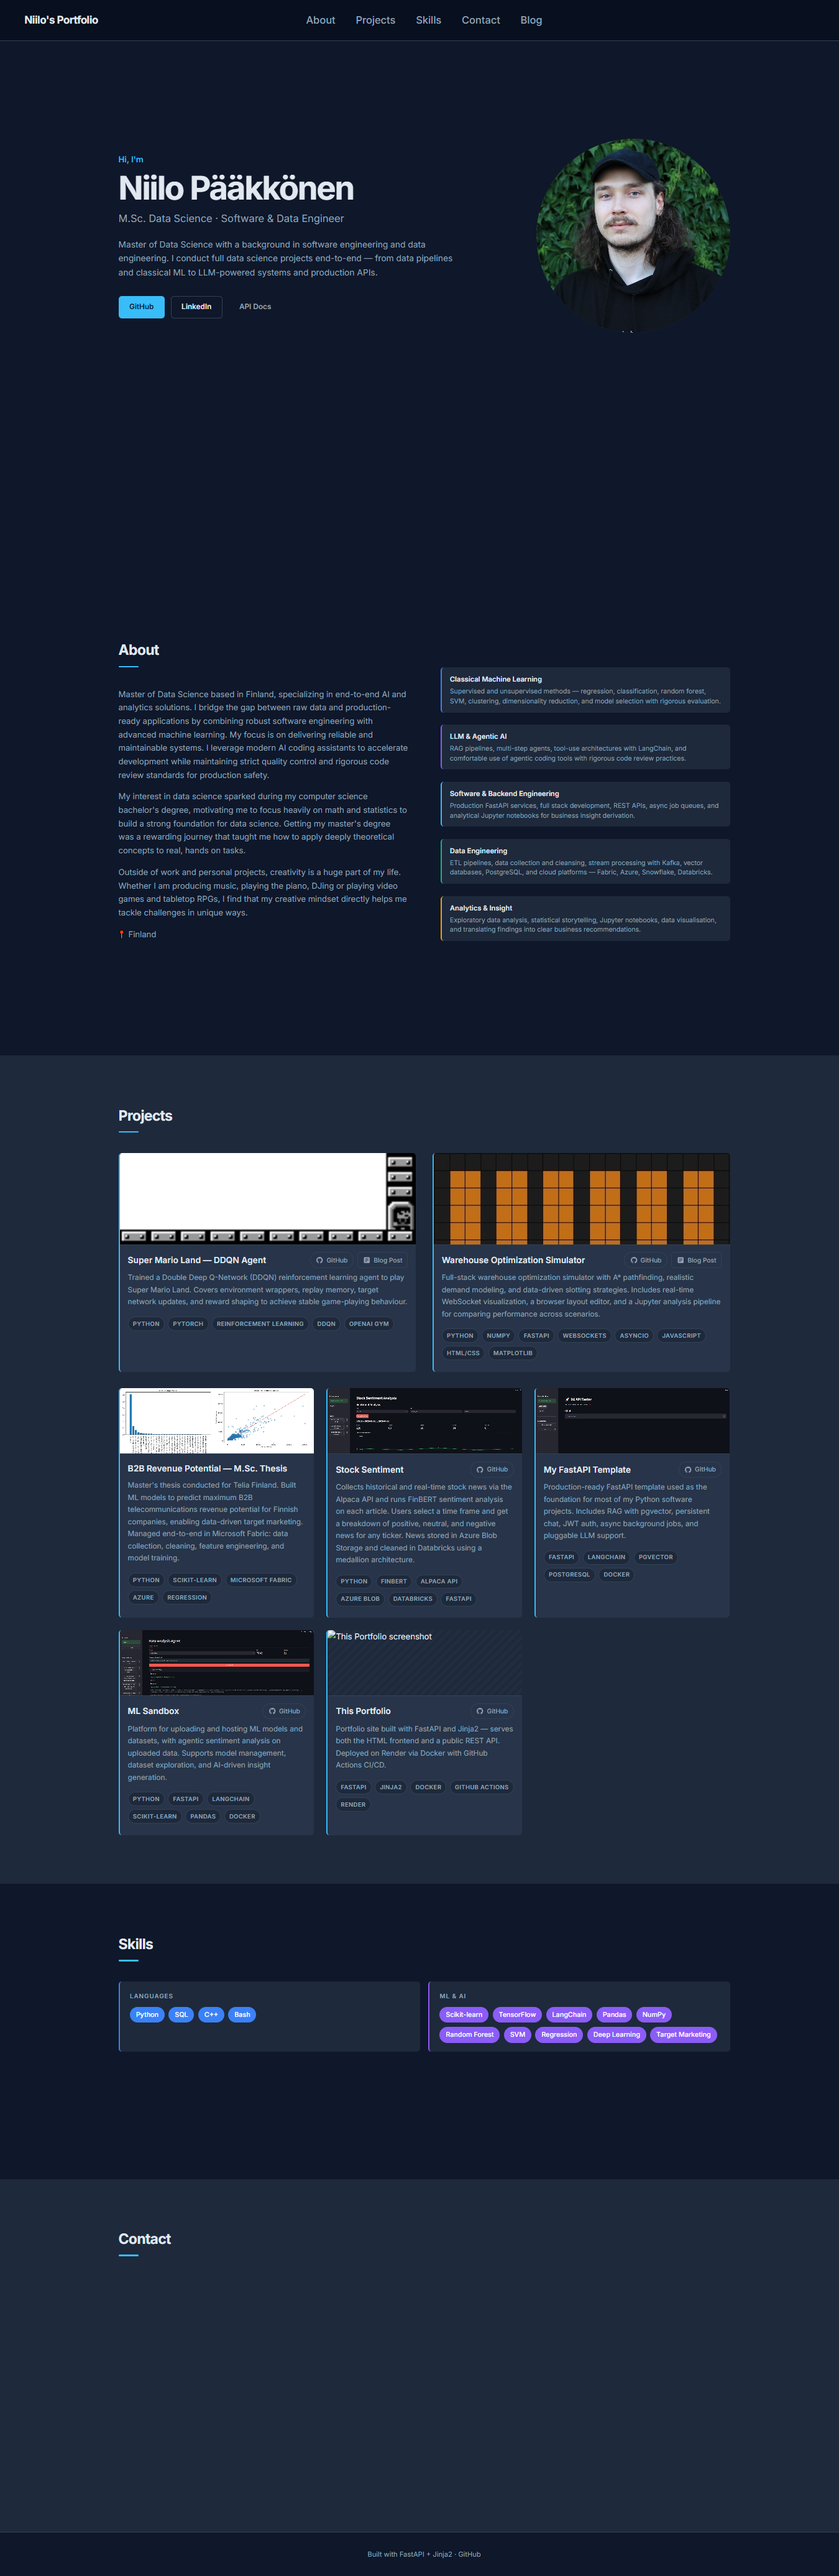
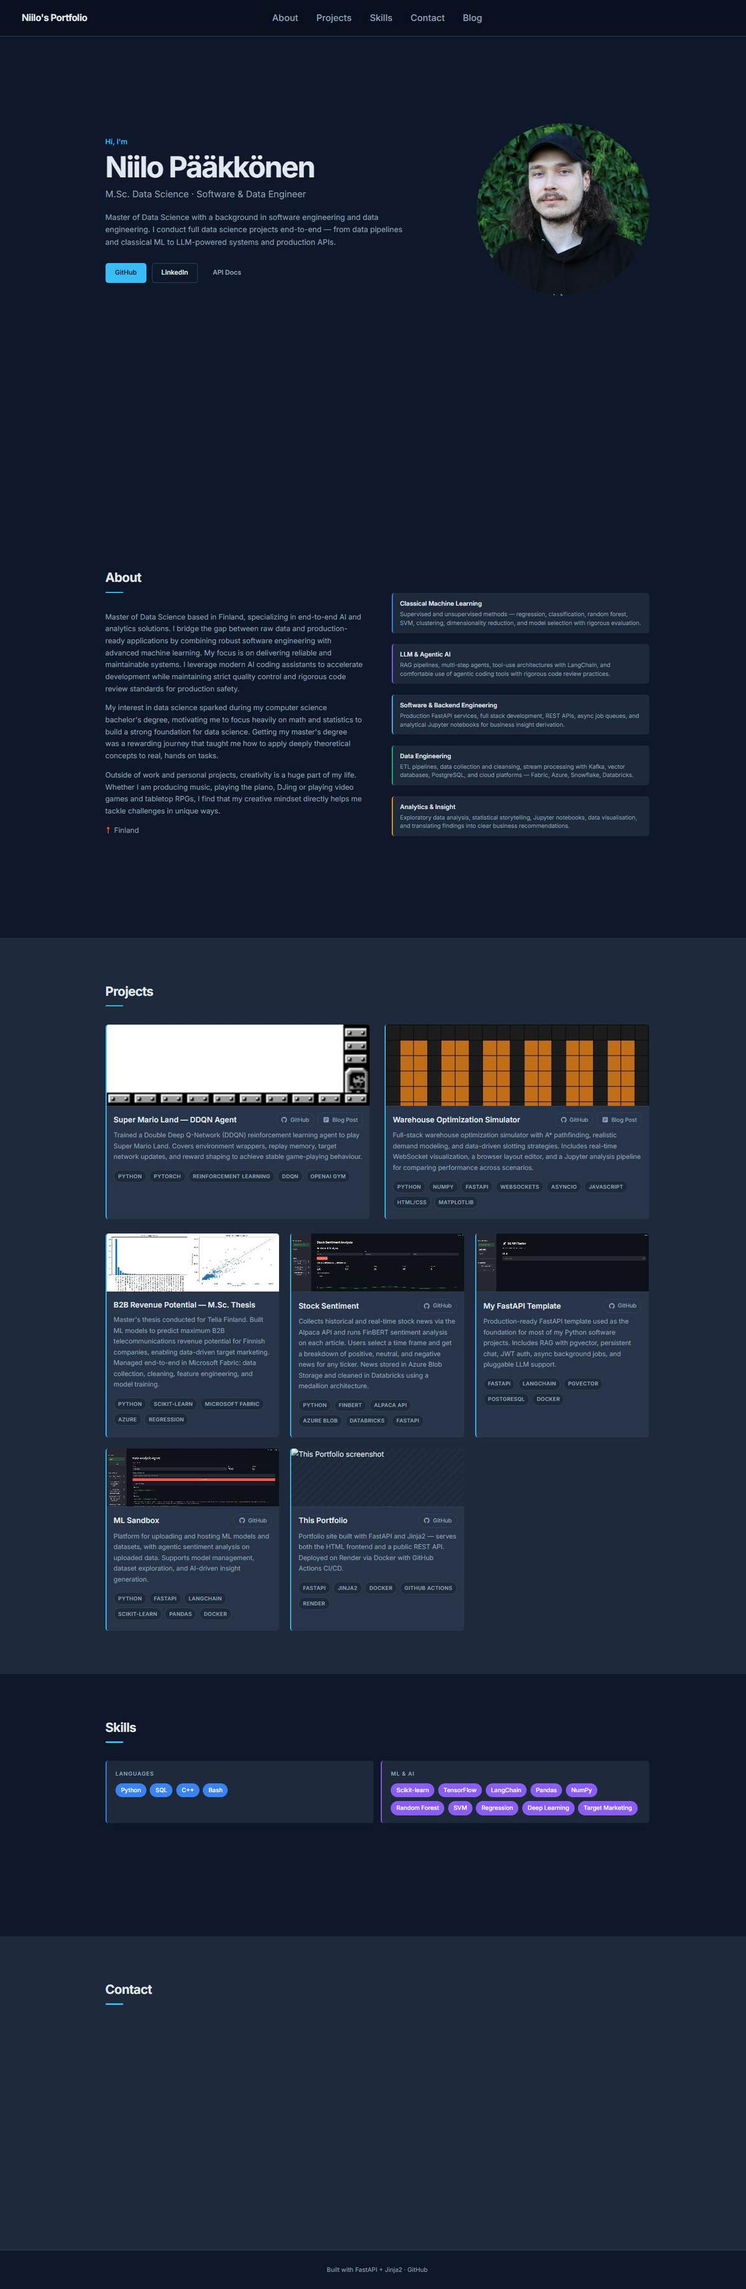
perf: replace frontmatter parser, compress images, skip full-file reads on blog index

diff --git a/backend/templates/index.html b/backend/templates/index.html
@@ -20,7 +20,10 @@
     </div>
     <div class="hero-avatar">
       <div class="avatar-placeholder">
-        <img src="/static/images/portrait.jpg" alt="Niilo Pääkkönen" />
+        <picture>
+          <source srcset="/static/images/portrait.webp" type="image/webp" />
+          <img src="/static/images/portrait.jpg" alt="Niilo Pääkkönen" />
+        </picture>
       </div>
     </div>
   </div>
@@ -91,7 +94,10 @@
       <div class="project-card project-card--featured fade-in">
         <div class="project-card__image{% if project.image %} lightbox-trigger{% endif %}"{% if project.image %} data-src="{{ project.image }}" data-title="{{ project.title }}"{% endif %}>
           {% if project.image %}
-          <img src="{{ project.image }}" alt="{{ project.title }} screenshot" loading="lazy"{% if project.image_position %} style="object-position: {{ project.image_position }}"{% endif %} />
+          <picture>
+            <source srcset="{{ project.image | replace('.jpg', '.webp') }}" type="image/webp" />
+            <img src="{{ project.image }}" alt="{{ project.title }} screenshot" loading="lazy"{% if project.image_position %} style="object-position: {{ project.image_position }}"{% endif %} />
+          </picture>
           {% else %}
           <span class="project-card__image-label">Project Preview</span>
           {% endif %}
@@ -138,7 +144,10 @@
       <div class="project-card fade-in">
         <div class="project-card__image project-card__image--sm{% if project.image %} lightbox-trigger{% endif %}"{% if project.image %} data-src="{{ project.image }}" data-title="{{ project.title }}"{% endif %}>
           {% if project.image %}
-          <img src="{{ project.image }}" alt="{{ project.title }} screenshot" loading="lazy"{% if project.image_position %} style="object-position: {{ project.image_position }}"{% endif %} />
+          <picture>
+            <source srcset="{{ project.image | replace('.jpg', '.webp') }}" type="image/webp" />
+            <img src="{{ project.image }}" alt="{{ project.title }} screenshot" loading="lazy"{% if project.image_position %} style="object-position: {{ project.image_position }}"{% endif %} />
+          </picture>
           {% else %}
           <span class="project-card__image-label">Project Preview</span>
           {% endif %}

diff --git a/backend/static/css/style.css b/backend/static/css/style.css
@@ -176,6 +176,11 @@ img { display: block; max-width: 100%; }
   width: 60%;
   height: 60%;
 }
+.avatar-placeholder picture {
+  display: block;
+  width: 100%;
+  height: 100%;
+}
 .avatar-placeholder img {
   width: 100%;
   height: 100%;
@@ -347,6 +352,11 @@ img { display: block; max-width: 100%; }
 }
 .project-card__image--sm {
   height: 130px;
+}
+.project-card__image picture {
+  display: block;
+  width: 100%;
+  height: 100%;
 }
 .project-card__image img {
   width: 100%;

diff --git a/backend/main.py b/backend/main.py
@@ -1,6 +1,6 @@
-import re
 from pathlib import Path
 
+import frontmatter
 import markdown
 from api.endpoints.portfolio import router as portfolio_router
 from core.config import get_settings
@@ -19,16 +19,16 @@ BASE_DIR = Path(__file__).parent
 BLOG_DIR = BASE_DIR / "data" / "blog"
 
 
-def _parse_frontmatter(text: str) -> tuple[dict, str]:
-    match = re.match(r"^---\n(.*?)\n---\n?", text, re.DOTALL)
-    if not match:
-        return {}, text
-    meta: dict = {}
-    for line in match.group(1).splitlines():
-        if ": " in line:
-            k, v = line.split(": ", 1)
-            meta[k.strip()] = v.strip().strip('"')
-    return meta, text[match.end():]
+def _read_frontmatter_only(path: Path) -> dict:
+    """Read only up to the closing --- to avoid loading multi-hundred-KB post bodies."""
+    lines: list[str] = []
+    with path.open(encoding="utf-8") as fh:
+        for i, line in enumerate(fh):
+            lines.append(line)
+            if i > 0 and line.strip() == "---":
+                break
+    post = frontmatter.loads("".join(lines))
+    return dict(post.metadata)
 
 setup_logging()
 settings = get_settings()
@@ -64,27 +64,20 @@ def index(request: Request):
     )
 
 
-def _first_paragraph(body: str) -> str:
-    for line in body.splitlines():
-        line = line.strip()
-        if line and not line.startswith("#") and not line.startswith("<"):
-            return re.sub(r"\*{1,2}|`", "", line)
-    return ""
-
 
 @app.get("/blog", response_class=HTMLResponse)
 def blog_index(request: Request):
     posts = []
     if BLOG_DIR.exists():
         for f in BLOG_DIR.glob("*.md"):
-            meta, body = _parse_frontmatter(f.read_text(encoding="utf-8"))
+            meta = _read_frontmatter_only(f)
             posts.append({
                 "slug": f.stem,
                 "title": meta.get("title", f.stem),
                 "date": meta.get("date", ""),
                 "summary": meta.get("summary", ""),
                 "github": meta.get("github", ""),
-                "preview": _first_paragraph(body),
+                "preview": meta.get("summary", ""),
             })
         posts.sort(key=lambda p: p["date"], reverse=True)
     return templates.TemplateResponse(
@@ -99,13 +92,13 @@ def blog_post(request: Request, slug: str):
     path = BLOG_DIR / f"{slug}.md"
     if path.parent != BLOG_DIR or not path.exists():
         raise HTTPException(status_code=404, detail="Post not found")
-    meta, body = _parse_frontmatter(path.read_text(encoding="utf-8"))
+    post = frontmatter.load(str(path))
     md = markdown.Markdown(extensions=["tables", "fenced_code", "extra", "toc"], extension_configs={"toc": {"toc_depth": "2"}})
-    html_content = md.convert(body)
+    html_content = md.convert(post.content)
     return templates.TemplateResponse(
         request=request,
         name="blog_post.html",
-        context={"about": ABOUT, "meta": meta, "content": html_content, "toc": md.toc},
+        context={"about": ABOUT, "meta": post.metadata, "content": html_content, "toc": md.toc},
     )
 
 

diff --git a/backend/data/portfolio_data.py b/backend/data/portfolio_data.py
@@ -100,6 +100,7 @@ PROJECTS = [
         "github": "https://github.com/niilop/my-portfolio",
         "demo": "",
         "image": "/static/images/my-portfolio.jpg",
+        "image_position": "top",
         "featured": False,
     },
     {
